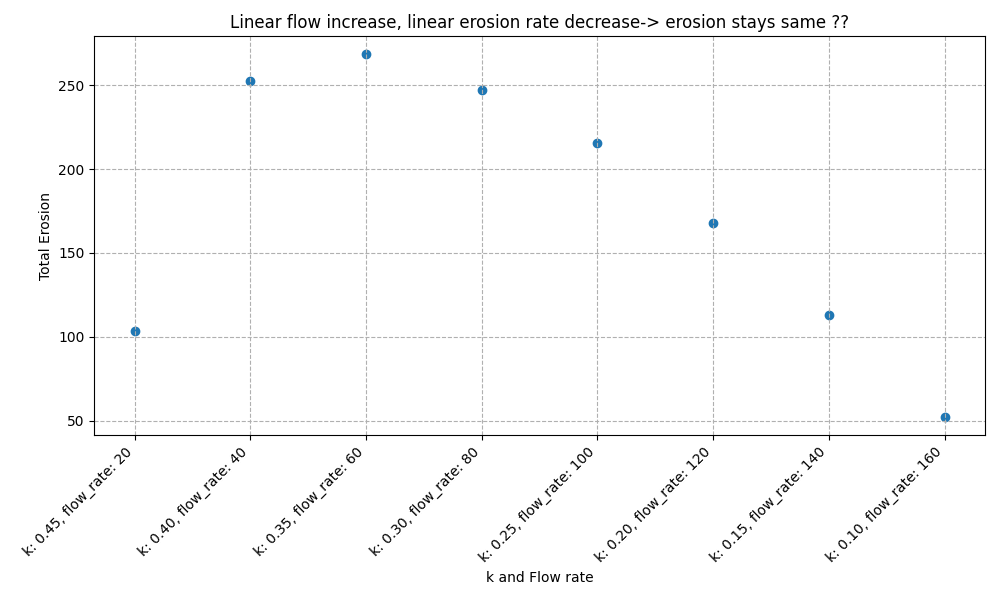
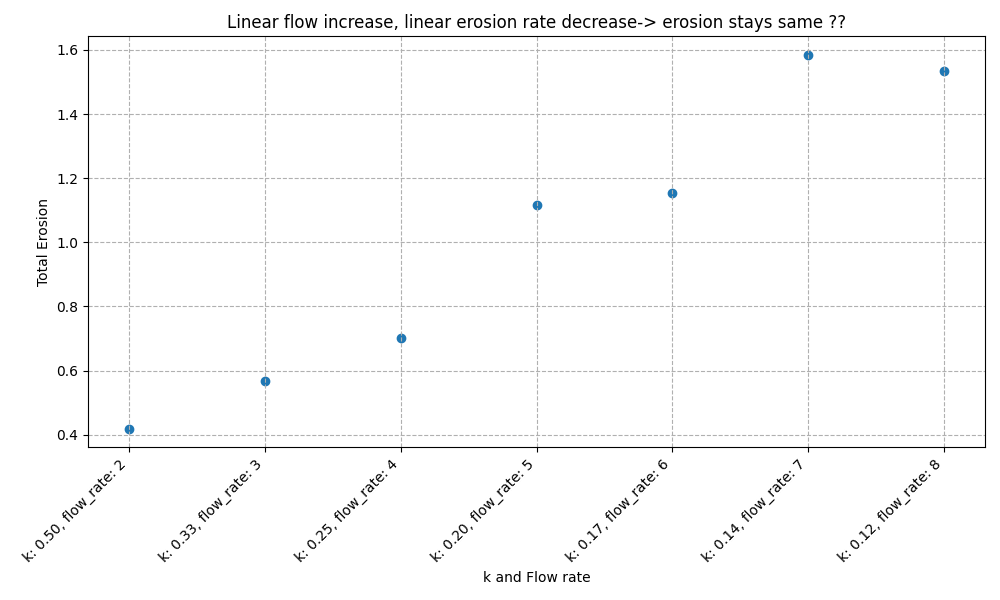
balanced comb varying erosion and flow

diff --git a/src/exp_incr_flow_decr_eros.py b/src/exp_incr_flow_decr_eros.py
@@ -34,8 +34,10 @@ if __name__ == "__main__":
     plt.figure(figsize=(10, 6))
 
     total_erosion = []
-    flow_rate = np.arange(20, 180, 20)
-    k = np.arange(0.1, 0.5, 0.05)[::-1]
+    flow_rate = np.arange(2, 9, 1)
+    k = 1 / flow_rate
+    print(flow_rate)
+    print(k)
 
     for i in range(len(flow_rate)):
         erosion_per_iteration = simulation(42, k[i], flow_rate[i])

diff --git a/src/test.py b/src/test.py
@@ -1,0 +1,11 @@
+import numpy as np
+
+flow_rate = np.arange(1, 9, 1)
+k = np.arange(0.1, 0.5, 0.05)[::-1]
+
+i = np.arange(1, 9, 1)
+
+for j in i:
+    print(j, 1/j)
+
+

diff --git a/src/exp_flow_rate.py b/src/exp_flow_rate.py
@@ -35,7 +35,6 @@ if __name__ == "__main__":
 
     total_erosion = []
     flow_rate = np.arange(1, 9, 1)
-    print(len)
     k = 0.1
 
     for i in flow_rate:
